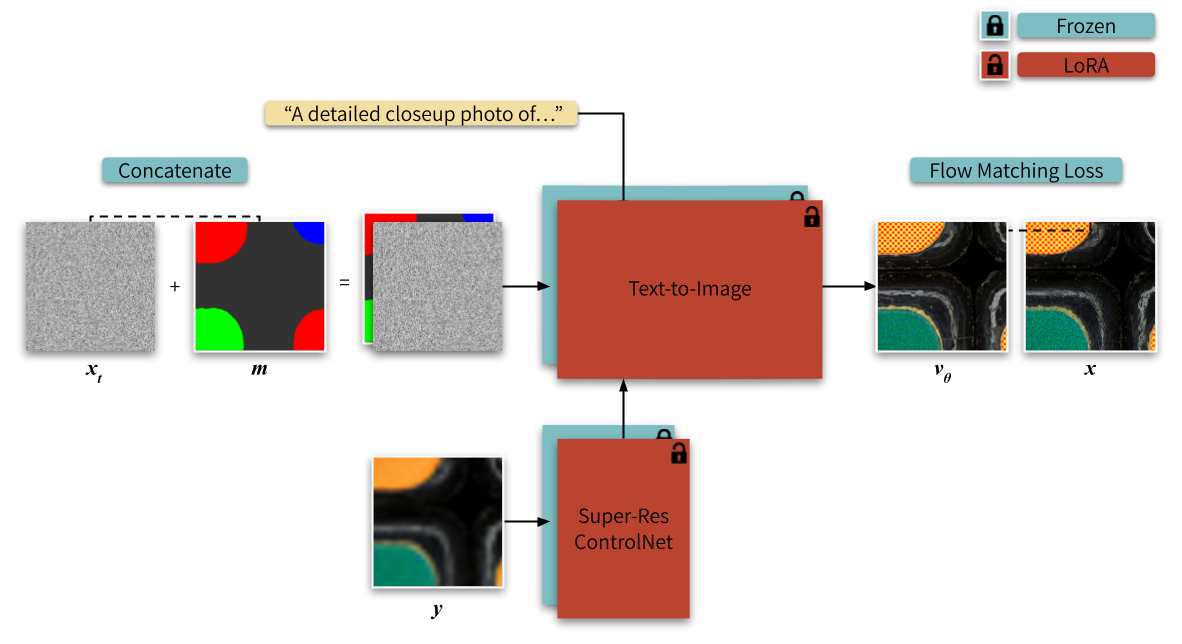
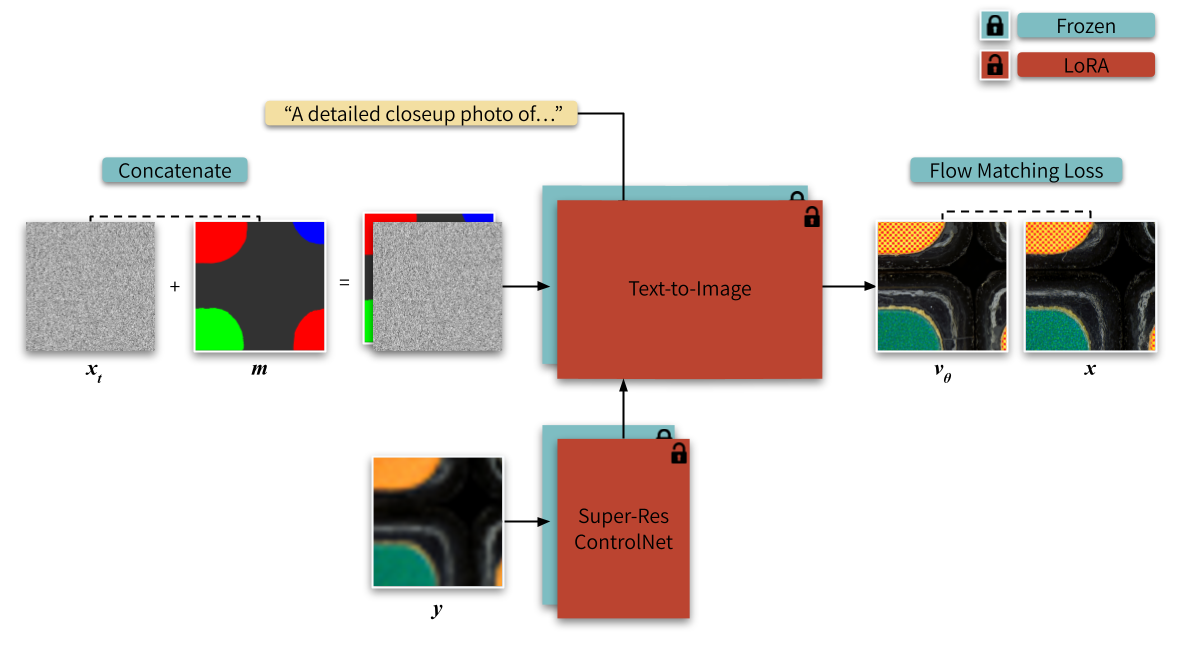
Updated figures and removed video section

diff --git a/index.html b/index.html
@@ -113,13 +113,7 @@
                 </a>
               </span>
               <span class="link-block">
-                <a href="#" class="external-link button is-normal is-rounded is-dark">
-                  <span class="icon"><i class="fab fa-youtube"></i></span>
-                  <span>Video</span>
-                </a>
-              </span>
-              <span class="link-block">
-                <a href="https://github.com/MicroZoom-SR/MicroZoom" class="external-link button is-normal is-rounded is-dark" target="_blank">
+                <a href="https://github.com/MicroZoom-SR/MicroZoom-SR.github.io" class="external-link button is-normal is-rounded is-dark" target="_blank">
                   <span class="icon"><i class="fab fa-github"></i></span>
                   <span>Code</span>
                 </a>
@@ -147,7 +141,6 @@
     <p style="text-align: center; margin-bottom: 2rem;">
       Skip to: &nbsp;
       <a href="#abstract">[Abstract]</a> &nbsp;
-      <a href="#video">[Video]</a> &nbsp;
       <a href="#results">[Results]</a> &nbsp;
       <a href="#method">[Method]</a> &nbsp;
       <a href="#comparison">[Comparison]</a>
@@ -319,27 +312,6 @@
   </div>
 </section>
 
-
-<!-- ── Video ─────────────────────────────────────────────────────── -->
-<section class="section" id="video">
-  <div class="container is-max-desktop">
-    <div class="columns is-centered has-text-centered">
-      <div class="column is-four-fifths">
-        <h2 class="title is-3">Video</h2>
-        <div class="publication-video">
-          <!-- TODO: replace VIDEO_ID with the actual YouTube video ID -->
-          <!-- <iframe src="https://www.youtube.com/embed/VIDEO_ID?rel=0&showinfo=0"
-                  frameborder="0" allow="autoplay; encrypted-media" allowfullscreen></iframe> -->
-          <div class="fig-placeholder" style="height: 100%; position: absolute; width: 100%; top: 0; left: 0;">
-            [ Video placeholder — embed YouTube URL here ]
-          </div>
-        </div>
-      </div>
-    </div>
-  </div>
-</section>
-
-
 <!-- ── Method ────────────────────────────────────────────────────── -->
 <section class="section" id="method">
   <div class="container is-max-desktop">
@@ -471,65 +443,6 @@
         </li>
       </ul>
     </div>
-
-
-    <!-- Quantitative table ────────────────────────────────────────
-    <h3 class="title is-4 has-text-centered" style="margin-top: 2.5rem;">
-      Quantitative Comparison
-    </h3>
-    <p class="has-text-centered is-size-7" style="margin-bottom: 1rem;">
-      DISTS / LSD evaluated on synthetic LR; win-rate / top-1 from a 79-participant user study on real captures.
-    </p>
-
-    <div class="table-container">
-      <table class="table is-bordered is-striped is-hoverable is-fullwidth results-table has-text-centered">
-        <thead>
-          <tr>
-            <th rowspan="2" class="has-text-left">Method</th>
-            <th colspan="2">Syn-LR</th>
-            <th colspan="4">Ref-LR (User Study)</th>
-          </tr>
-          <tr>
-            <th>DISTS &darr;</th>
-            <th>LSD &darr;</th>
-            <th>Win Rate (Quality) &uarr;</th>
-            <th>Win Rate (Consistency) &uarr;</th>
-            <th>Top-1 (Quality) &uarr;</th>
-            <th>Top-1 (Consistency) &uarr;</th>
-          </tr>
-        </thead>
-        <tbody>
-          <tr>
-            <td class="has-text-left">ContinuousSR</td>
-            <td>0.296</td><td>1.774</td>
-            <td>0%</td><td>0%</td><td>2.05%</td><td>2.89%</td>
-          </tr>
-          <tr>
-            <td class="has-text-left">IPAdapter + ControlNet</td>
-            <td>0.324</td><td>1.813</td>
-            <td>0%</td><td>0%</td><td>0.84%</td><td>1.99%</td>
-          </tr>
-          <tr>
-            <td class="has-text-left">Chain-of-Zoom</td>
-            <td>0.297</td><td>1.386</td>
-            <td>0%</td><td>0%</td><td>2.59%</td><td>6.15%</td>
-          </tr>
-          <tr>
-            <td class="has-text-left">UltraZoom</td>
-            <td>0.232</td><td><strong>0.951</strong></td>
-            <td>23.8%</td><td>28.6%</td><td>33.99%</td><td>36.41%</td>
-          </tr>
-          <tr style="background-color: #e8f4fb;">
-            <td class="has-text-left"><strong>MicroZoom (Ours)</strong></td>
-            <td><strong>0.213</strong></td><td>1.014</td>
-            <td><strong>76.2%</strong></td><td><strong>71.4%</strong></td>
-            <td><strong>60.52%</strong></td><td><strong>52.56%</strong></td>
-          </tr>
-        </tbody>
-      </table>
-    </div>
-  </div>
-</section> -->
 
 
 <!-- ── Footer ────────────────────────────────────────────────────── -->
